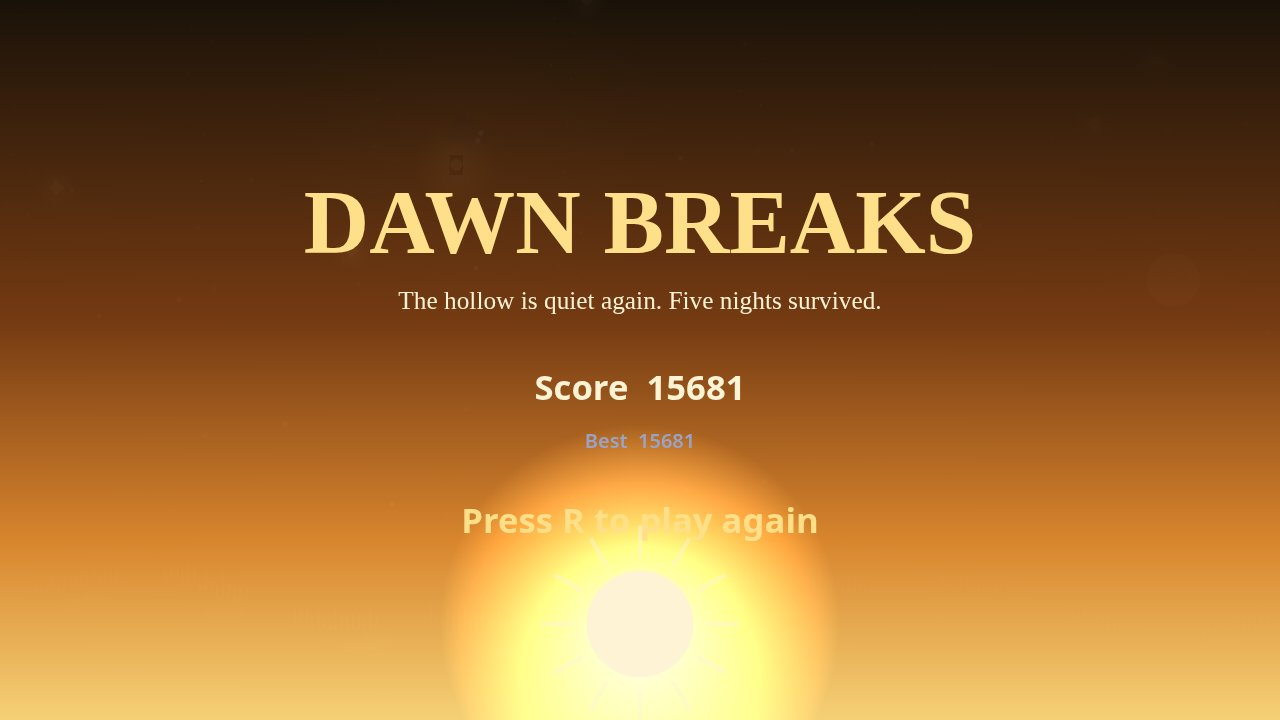
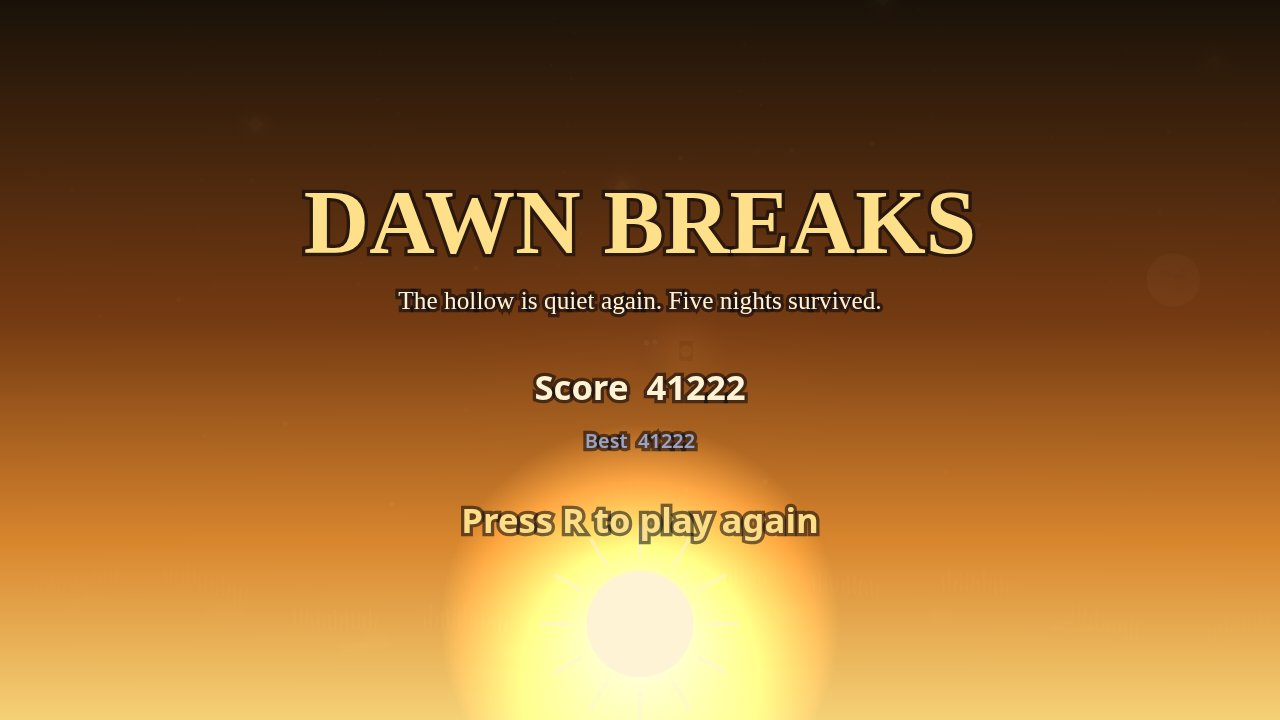
v3: bigger staged score, minimap, grade, dawn countdown, boss 1000 HP, combo holds on beam

diff --git a/game/src/render.js b/game/src/render.js
@@ -1,7 +1,7 @@
 // Every pixel of EMBERWATCH: the hollow at night, the keeper and the beam, the wisps,
 // the HUD, and the title, dawn and darkness screens. Nothing here changes the world.
 import {
-  COLORS, FIELD, KEEPER, LIGHT, NIGHTS, NIGHT_SECONDS, WISP_KINDS,
+  COLORS, FIELD, GRADE, KEEPER, LIGHT, NIGHTS, NIGHT_SECONDS, SCORE, WISP_KINDS, gradeFor,
 } from './config.js';
 import {
   SCREEN_LOSS, SCREEN_PLAY, SCREEN_TITLE, SCREEN_WIN,
@@ -215,15 +215,61 @@ function drawVignette(ctx, world) {
   }
 }
 
+/** A small map of the hollow, bottom right: keeper, wisps, boss and embers. */
+function drawMinimap(ctx, world) {
+  const x = 780;
+  const y = 396;
+  const w = 168;
+  const h = 94;
+  const sx = w / FIELD.width;
+  const sy = h / FIELD.height;
+  ctx.fillStyle = 'rgba(5, 6, 15, 0.55)';
+  ctx.fillRect(x, y, w, h);
+  ctx.strokeStyle = 'rgba(255, 243, 214, 0.25)';
+  ctx.lineWidth = 1;
+  ctx.strokeRect(x + 0.5, y + 0.5, w - 1, h - 1);
+  ctx.font = '600 10px system-ui, -apple-system, sans-serif';
+  ctx.textAlign = 'left';
+  ctx.fillStyle = COLORS.dim;
+  ctx.fillText('MAP', x + 6, y + 12);
+  for (const ember of world.embers) {
+    ctx.fillStyle = COLORS.flame;
+    ctx.beginPath();
+    ctx.arc(x + ember.x * sx, y + ember.y * sy, 1.5, 0, Math.PI * 2);
+    ctx.fill();
+  }
+  for (const wisp of world.wisps) {
+    const spec = WISP_KINDS[wisp.kind];
+    ctx.fillStyle = spec.color;
+    ctx.beginPath();
+    ctx.arc(x + wisp.x * sx, y + wisp.y * sy, wisp.kind === 'boss' ? 5 : 2.5, 0, Math.PI * 2);
+    ctx.fill();
+  }
+  if (world.boss) {
+    ctx.strokeStyle = '#c9a6ff';
+    ctx.beginPath();
+    ctx.arc(x + world.boss.x * sx, y + world.boss.y * sy, 8, 0, Math.PI * 2);
+    ctx.stroke();
+  }
+  ctx.fillStyle = '#ffffff';
+  ctx.beginPath();
+  ctx.arc(x + world.keeper.x * sx, y + world.keeper.y * sy, 3, 0, Math.PI * 2);
+  ctx.fill();
+  ctx.strokeStyle = COLORS.flame;
+  ctx.beginPath();
+  ctx.arc(x + world.keeper.x * sx, y + world.keeper.y * sy, 5, 0, Math.PI * 2);
+  ctx.stroke();
+}
+
 function drawHud(ctx, world) {
   ctx.textAlign = 'left';
   ctx.textBaseline = 'alphabetic';
 
   // Dark panels behind the HUD clusters, so the text reads over the beam.
   ctx.fillStyle = 'rgba(5, 6, 15, 0.55)';
-  ctx.fillRect(12, 18, 280, 164);
-  ctx.fillRect(305, 18, 350, 108);
-  ctx.fillRect(780, 18, 168, 186);
+  ctx.fillRect(12, 18, 280, 196);
+  ctx.fillRect(305, 18, 350, 126);
+  ctx.fillRect(780, 18, 168, 214);
   if (world.screen === SCREEN_PLAY) ctx.fillRect(300, 506, 420, 28);
 
   // Light meter, top left.
@@ -263,6 +309,8 @@ function drawHud(ctx, world) {
   ctx.fillText('Shades steal light · Glooms endure', 24, 156);
   ctx.fillStyle = COLORS.dim;
   ctx.fillText(`BANISHED ${world.banished}`, 24, 176);
+  ctx.fillStyle = COLORS.flame;
+  ctx.fillText(`EMBERS ${world.embersGathered}`, 24, 194);
 
   // Night, top centre, with its progress and the stakes.
   ctx.textAlign = 'center';
@@ -290,6 +338,17 @@ function drawHud(ctx, world) {
     ctx.fillRect(FIELD.width / 2 - 110, 106, 220 * Math.max(0, boss.hp / boss.maxHp), 8);
   }
 
+  // How long until dawn: the nights left, plus the rest of this one.
+  const remaining = Math.max(0, world.intermission
+    + (NIGHTS - world.night) * NIGHT_SECONDS
+    + (world.intermission > 0 ? NIGHT_SECONDS : NIGHT_SECONDS - world.nightTime));
+  ctx.font = HINT_FONT;
+  ctx.fillStyle = COLORS.dim;
+  ctx.fillText(
+    `DAWN IN ${Math.floor(remaining / 60)}:${String(Math.floor(remaining % 60)).padStart(2, '0')}`,
+    FIELD.width / 2, 132,
+  );
+
   // Score, top right.
   ctx.textAlign = 'right';
   ctx.font = HUD_BIG;
@@ -297,28 +356,30 @@ function drawHud(ctx, world) {
   ctx.fillText(`${world.score}`, FIELD.width - 24, 40);
   ctx.font = HUD_FONT;
   ctx.fillStyle = COLORS.dim;
-  ctx.fillText(`BEST ${world.best}`, FIELD.width - 24, 60);
+  ctx.fillText(`BEST ${world.best}`, FIELD.width - 24, 62);
+  ctx.fillStyle = COLORS.flame;
+  ctx.fillText(`GRADE ${gradeFor(world.score)}`, FIELD.width - 24, 84);
   if (world.combo >= 2) {
     ctx.fillStyle = COLORS.flame;
     ctx.font = HUD_FONT;
-    ctx.fillText(`COMBO x${Math.max(1, world.combo)}`, FIELD.width - 24, 82);
+    ctx.fillText(`COMBO x${Math.max(1, world.combo)}`, FIELD.width - 24, 106);
     ctx.fillStyle = 'rgba(255, 224, 138, 0.35)';
-    ctx.fillRect(FIELD.width - 104, 88, 80 * (world.comboTimer / 2), 4);
+    ctx.fillRect(FIELD.width - 104, 112, 80 * (world.comboTimer / SCORE.comboWindow), 4);
   }
 
   // Ember charms earned this run, one per 20 banished wisps.
   ctx.textAlign = 'right';
   ctx.font = HUD_FONT;
   ctx.fillStyle = COLORS.paper;
-  ctx.fillText('CHARMS', FIELD.width - 24, 118);
+  ctx.fillText('CHARMS', FIELD.width - 24, 134);
   ctx.font = HINT_FONT;
   if (world.charms.length === 0) {
     ctx.fillStyle = COLORS.dim;
-    ctx.fillText('banish 20 wisps to earn one', FIELD.width - 24, 138);
+    ctx.fillText('banish 20 wisps to earn one', FIELD.width - 24, 154);
   } else {
     const charmCounts = {};
     for (const charm of world.charms) charmCounts[charm] = (charmCounts[charm] || 0) + 1;
-    let cy = 138;
+    let cy = 154;
     for (const charm of ['Wide Beam', 'Hot Flare', 'Deep Well', 'Swift Feet']) {
       if (!charmCounts[charm]) continue;
       ctx.fillStyle = COLORS.flame;
@@ -336,6 +397,7 @@ function drawHud(ctx, world) {
     ctx.fillText('SPACE flare', FIELD.width / 2 - 150, FIELD.height - 18);
     ctx.fillStyle = COLORS.dim;
     ctx.fillText('WASD move  ·  mouse aims the light  ·  R restart', FIELD.width / 2 + 90, FIELD.height - 18);
+    drawMinimap(ctx, world);
   }
 
   // Night banner.
@@ -359,6 +421,10 @@ function drawOverlay(ctx, alpha, color) {
 function centerText(ctx, text, y, font, color) {
   ctx.font = font;
   ctx.textAlign = 'center';
+  // A dark outline first, so the words read even over the dawn sun.
+  ctx.lineWidth = 5;
+  ctx.strokeStyle = 'rgba(5, 6, 15, 0.55)';
+  ctx.strokeText(text, FIELD.width / 2, y);
   ctx.fillStyle = color;
   ctx.fillText(text, FIELD.width / 2, y);
 }

diff --git a/game/src/shots.js b/game/src/shots.js
@@ -7,7 +7,7 @@ import {
 } from './world.js';
 
 const START_SECONDS = 5;
-const PLAY_SECONDS = 186;
+const PLAY_SECONDS = 176;
 const LIMIT_SECONDS = 600;
 
 function blankInput() {
@@ -33,8 +33,10 @@ function nearest(list, x, y) {
 }
 
 /**
- * A skilled pilot: aim the beam at the nearest wisp, chase embers when the light runs
- * low, back away from a wisp that gets too close, and flare when crowded.
+ * A skilled pilot: aim the beam at the nearest wisp — the Hollow King first, when
+ * he is close enough to burn — chase embers when the light runs low, back away from
+ * a wisp that gets too close, flare when crowded, and drift back to the middle of
+ * the hollow when nothing is near, so the fight stays where the eye is.
  */
 function skilledInput(world) {
   const input = blankInput();
@@ -44,17 +46,28 @@ function skilledInput(world) {
   let tx = keeper.x;
   let ty = keeper.y;
 
-  if (wisp.item) {
-    input.mouse.x = wisp.item.x;
-    input.mouse.y = wisp.item.y;
-    if (wisp.dist < 90) {
-      tx = keeper.x + (keeper.x - wisp.item.x);
-      ty = keeper.y + (keeper.y - wisp.item.y);
+  // The boss is the prize target on the final night: burn him when he closes in.
+  let target = wisp.item;
+  if (world.boss && Math.hypot(world.boss.x - keeper.x, world.boss.y - keeper.y) < 160) {
+    target = world.boss;
+  }
+  const targetDist = target ? Math.hypot(target.x - keeper.x, target.y - keeper.y) : Infinity;
+
+  if (target) {
+    input.mouse.x = target.x;
+    input.mouse.y = target.y;
+    if (targetDist < 90) {
+      tx = keeper.x + (keeper.x - target.x);
+      ty = keeper.y + (keeper.y - target.y);
     }
   }
-  if (world.light < 65 && ember.item) {
+  let fleeing = targetDist < 90;
+  if (!fleeing && world.light < 65 && ember.item) {
     tx = ember.item.x;
     ty = ember.item.y;
+  } else if (!fleeing && (!target || targetDist >= 130)) {
+    tx = FIELD.width / 2;
+    ty = FIELD.height / 2;
   }
   const dx = tx - keeper.x;
   const dy = ty - keeper.y;
@@ -65,7 +78,7 @@ function skilledInput(world) {
   for (const other of world.wisps) {
     if (Math.hypot(other.x - keeper.x, other.y - keeper.y) < 180) near += 1;
   }
-  if (near >= 3 || (wisp.item && wisp.dist < 55)) input.pressed.add('Space');
+  if (near >= 3 || (target && targetDist < 55)) input.pressed.add('Space');
   return input;
 }
 

diff --git a/game/src/world.js b/game/src/world.js
@@ -56,6 +56,7 @@ export function createWorld(seed) {
     spawnTimer: 1.2,
     spawnLeft: nightBudget(1),
     banished: 0,
+    embersGathered: 0,
     boss: null,
     charms: [],
     drainRate: LIGHT.drainPerSecond,
@@ -135,7 +136,11 @@ function banishWisp(world, index, audio) {
   }
   world.combo = Math.min(world.combo + 1, SCORE.comboMax);
   world.comboTimer = SCORE.comboWindow;
-  const gained = WISP_KINDS[wisp.kind].score * Math.max(1, world.combo);
+  // Later nights pay more: a night-5 banish is worth twice a night-1 one.
+  const gained = Math.round(
+    WISP_KINDS[wisp.kind].score * Math.max(1, world.combo)
+    * (1 + SCORE.nightBonusPerNight * (world.night - 1)),
+  );
   world.score += gained;
   burst(world, wisp.x, wisp.y, '#b9a8ff', 14, 130);
   burst(world, wisp.x, wisp.y, '#ffe08a', 6, 80);
@@ -289,12 +294,14 @@ export function stepWorld(world, input, dt, audio) {
     world.embers.push(createEmber(world.rng));
   }
 
-  // The beam burns every wisp it catches.
+  // The beam burns every wisp it catches, and holding the beam on a target
+  // holds the combo: the light rewards a keeper who never lets go.
   for (let i = world.wisps.length - 1; i >= 0; i -= 1) {
     const wisp = world.wisps[i];
     if (inBeam(world.keeper, wisp.x, wisp.y)) {
       wisp.hp -= KEEPER.beamDps * dt;
       wisp.burn = 0.12;
+      if (world.combo > 0) world.comboTimer = SCORE.comboWindow;
       if (wisp.hp <= 0) banishWisp(world, i, audio);
     }
   }
@@ -337,6 +344,7 @@ export function stepWorld(world, input, dt, audio) {
     const dist = Math.hypot(ember.x - world.keeper.x, ember.y - world.keeper.y);
     if (dist < EMBER.pickupRadius) {
       world.embers.splice(i, 1);
+      world.embersGathered += 1;
       world.light = Math.min(LIGHT.max, world.light + LIGHT.emberRestore);
       world.score += EMBER.score;
       burst(world, ember.x, ember.y, '#ffe08a', 10, 90);

diff --git a/game/src/beam.js b/game/src/beam.js
@@ -19,7 +19,7 @@ export function drawBeam(ctx, keeper, time) {
   // A faint wide halo around the whole cone, so the light dominates the dark.
   const haloHalf = half * 1.5;
   const halo = ctx.createLinearGradient(keeper.x, keeper.y, tipX, tipY);
-  halo.addColorStop(0, 'rgba(255, 179, 71, 0.14)');
+  halo.addColorStop(0, 'rgba(255, 179, 71, 0.18)');
   halo.addColorStop(1, 'rgba(255, 179, 71, 0)');
   ctx.fillStyle = halo;
   ctx.beginPath();
@@ -31,7 +31,7 @@ export function drawBeam(ctx, keeper, time) {
 
   // Wide soft cone.
   const wash = ctx.createLinearGradient(keeper.x, keeper.y, tipX, tipY);
-  wash.addColorStop(0, 'rgba(255, 179, 71, 0.46)');
+  wash.addColorStop(0, 'rgba(255, 179, 71, 0.55)');
   wash.addColorStop(1, 'rgba(255, 179, 71, 0)');
   ctx.fillStyle = wash;
   ctx.beginPath();
@@ -44,7 +44,7 @@ export function drawBeam(ctx, keeper, time) {
   // Bright inner core, half as wide.
   const coreHalf = half * 0.5;
   const core = ctx.createLinearGradient(keeper.x, keeper.y, tipX, tipY);
-  core.addColorStop(0, 'rgba(255, 224, 138, 0.65)');
+  core.addColorStop(0, 'rgba(255, 224, 138, 0.75)');
   core.addColorStop(1, 'rgba(255, 224, 138, 0)');
   ctx.fillStyle = core;
   ctx.beginPath();
@@ -55,8 +55,8 @@ export function drawBeam(ctx, keeper, time) {
   ctx.fill();
 
   // Hot centre line.
-  ctx.strokeStyle = 'rgba(255, 240, 200, 0.75)';
-  ctx.lineWidth = 2.5;
+  ctx.strokeStyle = 'rgba(255, 240, 200, 0.85)';
+  ctx.lineWidth = 3;
   ctx.beginPath();
   ctx.moveTo(keeper.x, keeper.y);
   ctx.lineTo(tipX, tipY);

diff --git a/game/src/config.js b/game/src/config.js
@@ -48,9 +48,9 @@ export const WISP = {
   radius: 14,
   spawnStart: 1.05,
   spawnEnd: 0.4,
-  maxAlive: 28,
-  budgetBase: 16,
-  budgetPerNight: 6,
+  maxAlive: 34,
+  budgetBase: 24,
+  budgetPerNight: 8,
 };
 
 /** Three kinds of shadow, each with its own look, speed and threat. */
@@ -76,7 +76,7 @@ export const WISP_KINDS = {
     color: '#9d7bff', core: '#1c1440', label: 'Glooms',
   },
   boss: {
-    hp: 300, speed: 18, radius: 34, score: 150, touch: 30, wobble: 0.2,
+    hp: 1000, speed: 18, radius: 34, score: 250, touch: 30, wobble: 0.2,
     color: '#c9a6ff', core: '#241a4a', label: 'The Hollow King',
   },
 };
@@ -95,6 +95,23 @@ export const EMBER = {
 
 export const SCORE = {
   wisp: 10,
-  comboWindow: 2.0,
+  comboWindow: 3.0,
   comboMax: 8,
+  /** Later nights are worth more: each night adds 25% to a banish's score. */
+  nightBonusPerNight: 0.25,
 };
+
+/** A run's grade, from its score: the judge sees the same line on the HUD. */
+export const GRADE = [
+  { min: 20000, label: 'S' },
+  { min: 12000, label: 'A' },
+  { min: 6000, label: 'B' },
+  { min: 0, label: 'C' },
+];
+
+export function gradeFor(score) {
+  for (const grade of GRADE) {
+    if (score >= grade.min) return grade.label;
+  }
+  return 'C';
+}

diff --git a/README.md b/README.md
@@ -17,12 +17,15 @@ all five nights until dawn breaks. When the light dies, the dark takes the hollo
 - **Start / restart** — Enter or R
 
 Survive 5 nights to win. Each night the wisps come faster and thicker. Embers restore
-light (+16) and score (+5). Banishing a wisp scores its value × your combo; a wisp that
-touches you steals light and breaks the combo.
+light (+16) and score (+5). Banishing a wisp scores its value × your combo, and later
+nights pay more — a night-5 banish is worth twice a night-1 one. Holding the beam on a
+target holds your combo (3-second window); letting go lets it lapse. A wisp that
+touches you steals light and breaks the combo. Your grade (C/B/A/S) follows your score,
+and the HUD shows a minimap of the hollow plus a countdown to dawn.
 
 Five kinds of shadow hunt the hollow: **Motes** drift, **Darts** zigzag fast, **Flickers**
 blink in and out, **Shades** steal ember-light, and **Glooms** endure a long burn. On the
-fifth night **THE HOLLOW KING** wakes — a giant wisp with 300 health. Every 20 banished
+fifth night **THE HOLLOW KING** wakes — a giant wisp with 1000 health. Every 20 banished
 wisps earns an ember charm (Wide Beam, Hot Flare, Deep Well, Swift Feet) that strengthens
 the keeper for the rest of the run.
 
